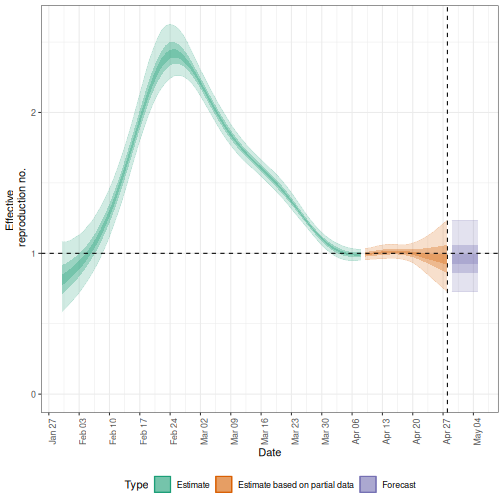
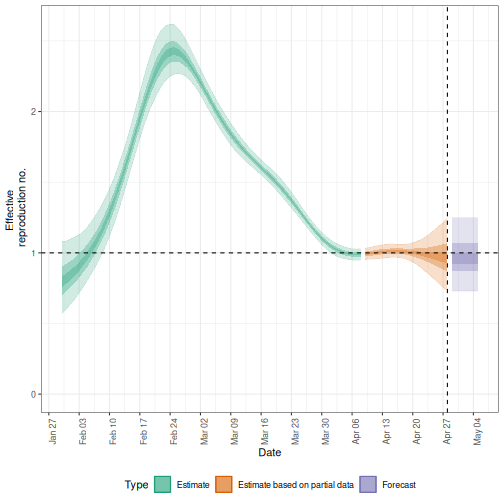
markdown source builds
Auto-generated via `{sandpaper}`
Source  : 22c01662994e1973a7e9718cefce7400c787fe59
Branch  : main
Author  : Andree Valle Campos <[email redacted]>
Time    : 2026-07-02 10:21:14 +0000
Message : fix typo

diff --git a/quantify-transmissibility.md b/quantify-transmissibility.md
@@ -35,7 +35,7 @@ Learners should familiarise themselves with following concepts before working th
 
 :::::::::: spoiler
 
-Install packages if their are not already installed
+Install packages if they are not already installed
 
 ```r
 if (!base::require("pak")) install.packages("pak")
@@ -440,15 +440,15 @@ outbreaks::ebola_sim_clean$linelist %>%
   meanlog:
     - normal distribution:
       mean:
-        0.21
+        0.28
       sd:
-        0.13
+        0.11
   sdlog:
     - normal distribution:
       mean:
-        0.99
+        0.96
       sd:
-        0.12
+        0.091
 ```
 
 ::::::::::::::::::
@@ -600,22 +600,22 @@ summary(estimates)
 ``` output
                         measure                estimate
                          <char>                  <char>
-1:       New infections per day    7783 (4539 -- 13579)
-2:   Expected change in reports       Likely decreasing
+1:       New infections per day    7951 (4601 -- 13426)
+2:   Expected change in reports                  Stable
 3:   Effective reproduction no.      0.96 (0.73 -- 1.2)
-4:               Rate of growth -0.017 (-0.11 -- 0.078)
-5: Doubling/halving time (days)       -41 (8.9 -- -6.3)
+4:               Rate of growth -0.013 (-0.11 -- 0.083)
+5: Doubling/halving time (days)       -55 (8.4 -- -6.4)
 ```
 
 As these estimates are based on partial data, they have a wide uncertainty interval.
 
-+ From the summary of our analysis we see that the expected change in reports is Likely decreasing with the estimated new infections 7783 (4539 -- 13579).
++ From the summary of our analysis we see that the expected change in reports is Stable with the estimated new infections 7951 (4601 -- 13426).
 
 + The effective reproduction number $R_t$ estimate (on the last date of the data) is 0.96 (0.73 -- 1.2). 
 
-+ The exponential growth rate of case numbers is -0.017 (-0.11 -- 0.078).
++ The exponential growth rate of case numbers is -0.013 (-0.11 -- 0.083).
 
-+ The doubling time (the time taken for case numbers to double) is -41 (8.9 -- -6.3).
++ The doubling time (the time taken for case numbers to double) is -55 (8.4 -- -6.4).
 
 ::::::::::::::::::::::::::::::::::::: callout
 ### `Expected change in reports` 

diff --git a/superspreading-estimate.md b/superspreading-estimate.md
@@ -36,7 +36,7 @@ Learners should familiarise themselves with following concept dependencies befor
 
 :::::::::: spoiler
 
-Install packages if their are not already installed
+Install packages if they are not already installed
 
 ```r
 if (!base::require("pak")) install.packages("pak")

diff --git a/superspreading-simulate.md b/superspreading-simulate.md
@@ -32,7 +32,7 @@ Learners should familiarise themselves with the following concept dependencies b
 
 :::::::::: spoiler
 
-Install packages if their are not already installed
+Install packages if they are not already installed
 
 ```r
 if (!base::require("pak")) install.packages("pak")